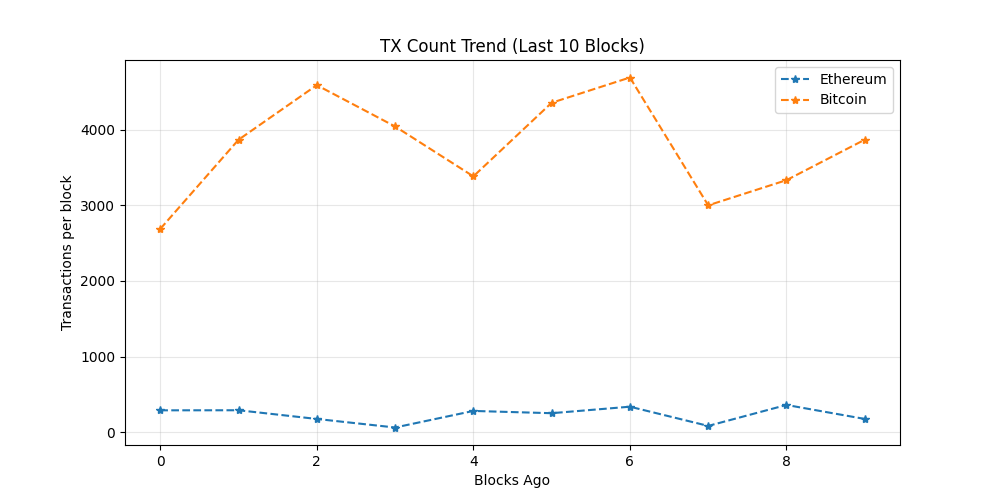
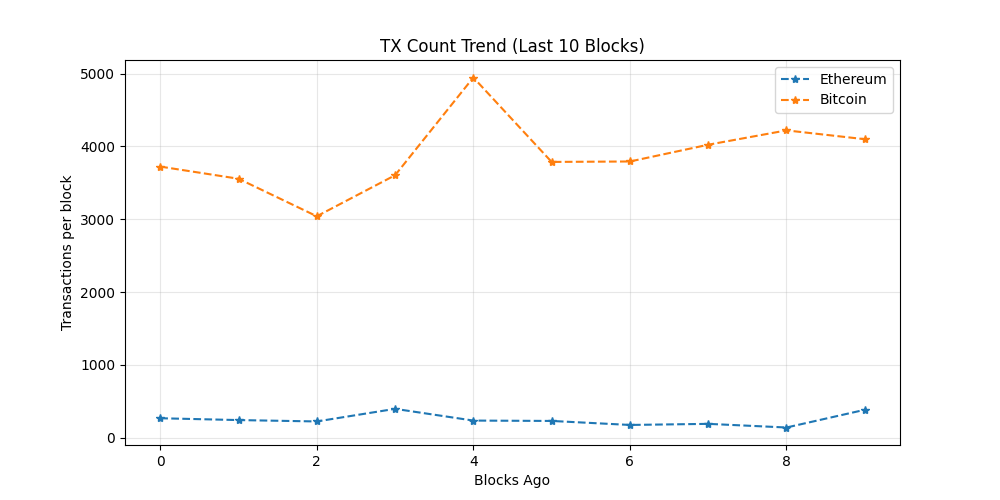
chore: update on-chain dashboard

diff --git a/README.md b/README.md
@@ -19,7 +19,7 @@ The README itself acts as the dashboard and is regenerated automatically on a 6 
 demonstrating a production-style, infrastructure-focused observability workflow rather
 than a traditional UI-driven approach.
 
-_Last updated: 2026-03-07 06:58 UTC_
+_Last updated: 2026-03-07 13:08 UTC_
 
 ## API Usage (GetBlock.io)
 - Calls used: **24**
@@ -27,8 +27,8 @@ _Last updated: 2026-03-07 06:58 UTC_
 ## Network Metrics
 | Chain | Block Height | TX Count | TPS (10 blk avg) | Block Util | Avg Fee |
 |------|-------------|----------|------------------|------------|---------|
-| Ethereum | 24603933 | 176 | 14.67 | 37.82% | 0.0 Gwei |
-| Bitcoin | 939675 | 3868 | 17.66 | 99.8% | N/A |
+| Ethereum | 24605773 | 384 | 32.0 | 73.12% | 0.0 Gwei |
+| Bitcoin | 939716 | 4099 | 7.27 | 99.8% | N/A |
 
 ## Visuals
 ### Transactions Trend
@@ -43,7 +43,10 @@ _Last updated: 2026-03-07 06:58 UTC_
 ## Whale Alerts (latest block)
 - Transaction hashes are truncated for readability.
 - Full hashes are available in `dashboards/metrics.json`
-No whale-sized transfers detected in latest blocks.
+- Bitcoin | 185.32 BTC | `417e917e0a8c…`
+- Bitcoin | 158.57 BTC | `41c18320b947…`
+- Bitcoin | 621.46 BTC | `08de69c26623…`
+- Bitcoin | 231.0 BTC | `b6d25e4450cf…`
 
 ## Run locally
 
